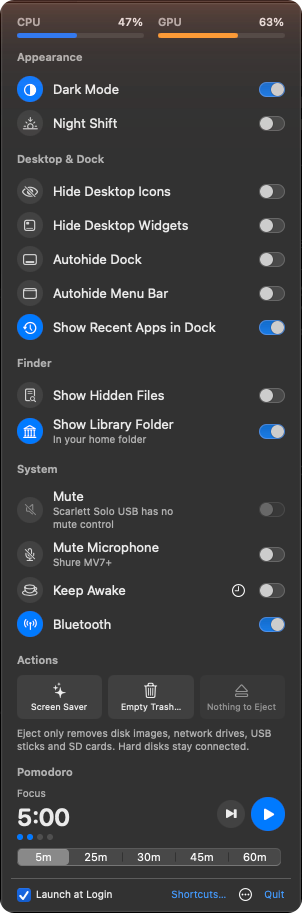
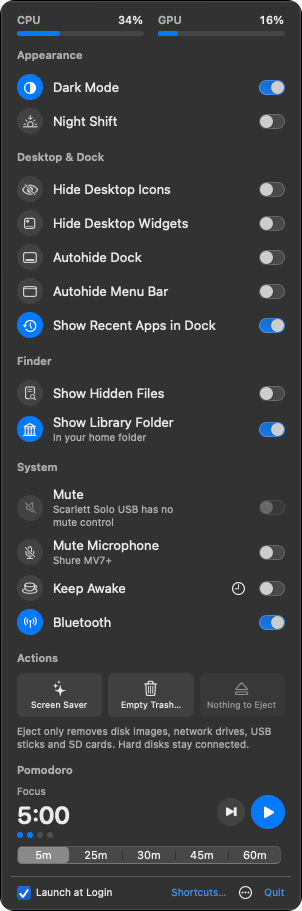
Footer: show Check for Updates and Report a Bug as links; use the clean screenshot
The ⋯ menu wasn't discoverable, so the footer gets a second line with the update and
bug-report links and the version, which opens the GitHub repo. The README screenshot
is the user's own capture, without the computer-use glow.

diff --git a/Sources/Switchboard/Views/PanelView.swift b/Sources/Switchboard/Views/PanelView.swift
@@ -147,27 +147,20 @@ private struct Footer: View {
                     openWindow(id: ShortcutsView.windowID)
                     NSApp.activate()
                 }
-                .buttonStyle(.link)
-                .font(.caption)
-                Menu {
-                    Button("Check for Updates…") { Support.checkForUpdates() }
-                    Button("Report a Bug…") { Support.reportBug() }
-                    Button("Switchboard on GitHub") { Support.openRepo() }
-                    Divider()
-                    Text("Version \(Support.appVersion)")
-                } label: {
-                    Image(systemName: "ellipsis.circle")
-                }
-                .menuStyle(.borderlessButton)
-                .menuIndicator(.hidden)
-                .fixedSize()
-                .help("Updates, bug reports and more")
                 Button("Quit") { NSApp.terminate(nil) }
-                    .buttonStyle(.link)
-                    .font(.caption)
                     .keyboardShortcut("q")
             }
+            HStack(spacing: 12) {
+                Button("Check for Updates…") { Support.checkForUpdates() }
+                Button("Report a Bug…") { Support.reportBug() }
+                Spacer()
+                Button("v\(Support.shortVersion)") { Support.openRepo() }
+                    .foregroundStyle(.secondary)
+                    .help("Switchboard \(Support.appVersion) on GitHub")
+            }
         }
+        .buttonStyle(.link)
+        .font(.caption)
         .padding(.horizontal, 6)
     }
 }

diff --git a/Sources/Switchboard/Support.swift b/Sources/Switchboard/Support.swift
@@ -39,6 +39,11 @@ enum Support {
         }
     }
 
+    /// "1.0.0".
+    static var shortVersion: String {
+        Bundle.main.infoDictionary?["CFBundleShortVersionString"] as? String ?? "?"
+    }
+
     /// "1.0.0 (3)".
     static var appVersion: String {
         let info = Bundle.main.infoDictionary ?? [:]

diff --git a/README.md b/README.md
@@ -13,7 +13,7 @@ poll), free and open source.
 **[Download the latest Switchboard](https://github.com/jhokanson00/Switchboard/releases/latest)**:
 open the `.dmg` and drag Switchboard to Applications, then open it. It lives in the menu
 bar as a light switch; there's no Dock icon. Switchboard checks for updates once a day,
-or choose **⋯ ▸ Check for Updates…** at the bottom of the panel.
+or choose **Check for Updates…** at the bottom of the panel.
 
 - macOS 15 or later. Apple silicon and Intel.
 - Signed with Developer ID and notarized by Apple.
@@ -109,7 +109,7 @@ interfaces) have no mute control; the Mute row says so for those.
 
 ## Report a bug
 
-Choose **⋯ ▸ Report a Bug…** at the bottom of the panel. It opens a GitHub issue with
+Choose **Report a Bug…** at the bottom of the panel. It opens a GitHub issue with
 your Switchboard and macOS versions filled in. Or
 [open an issue](https://github.com/jhokanson00/Switchboard/issues/new/choose) directly.
 
